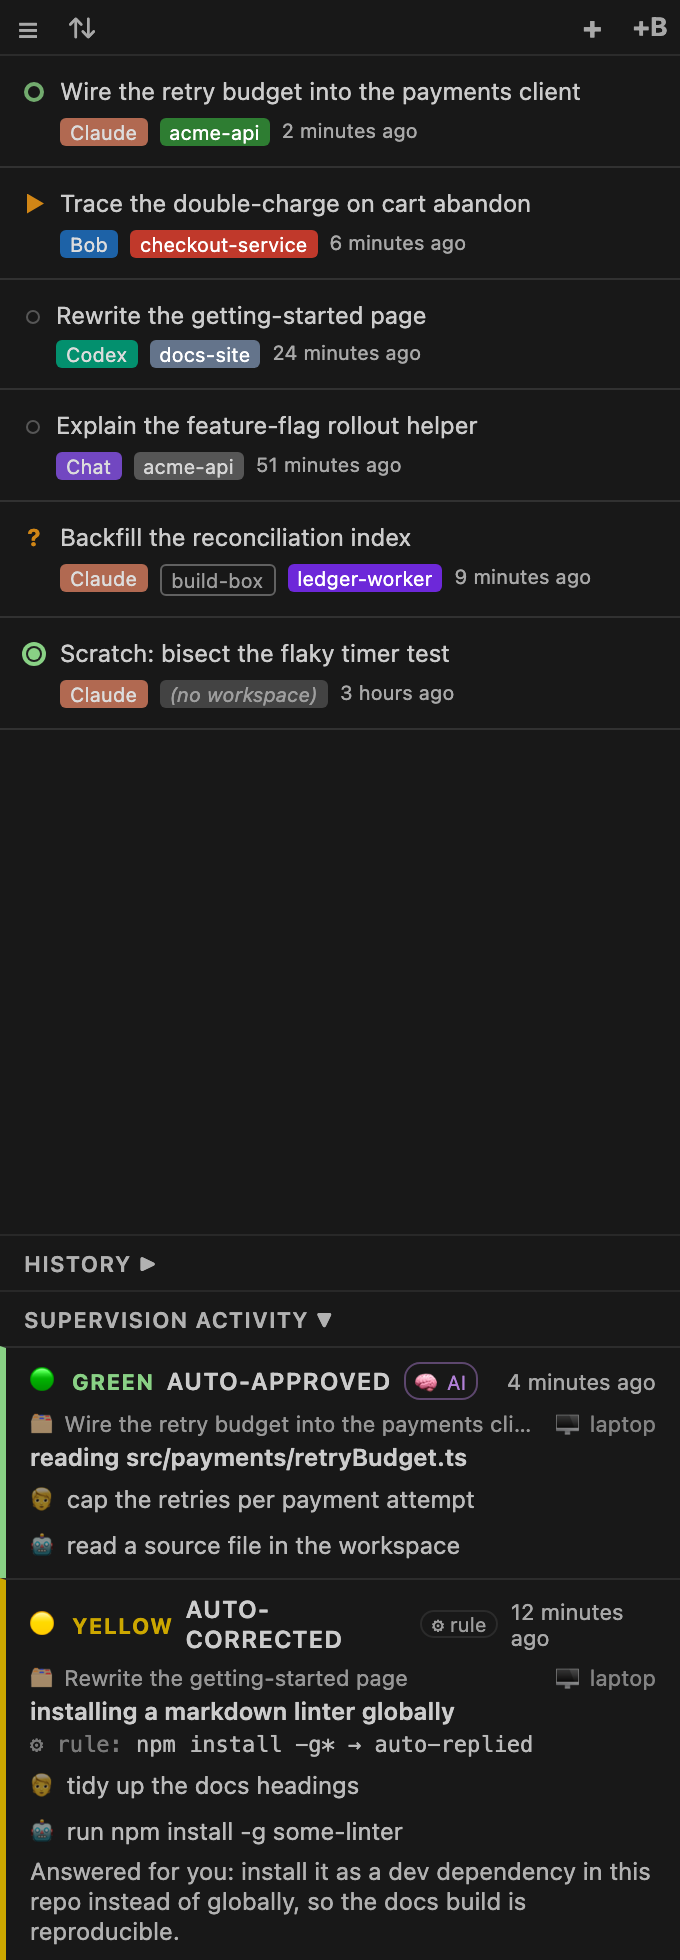
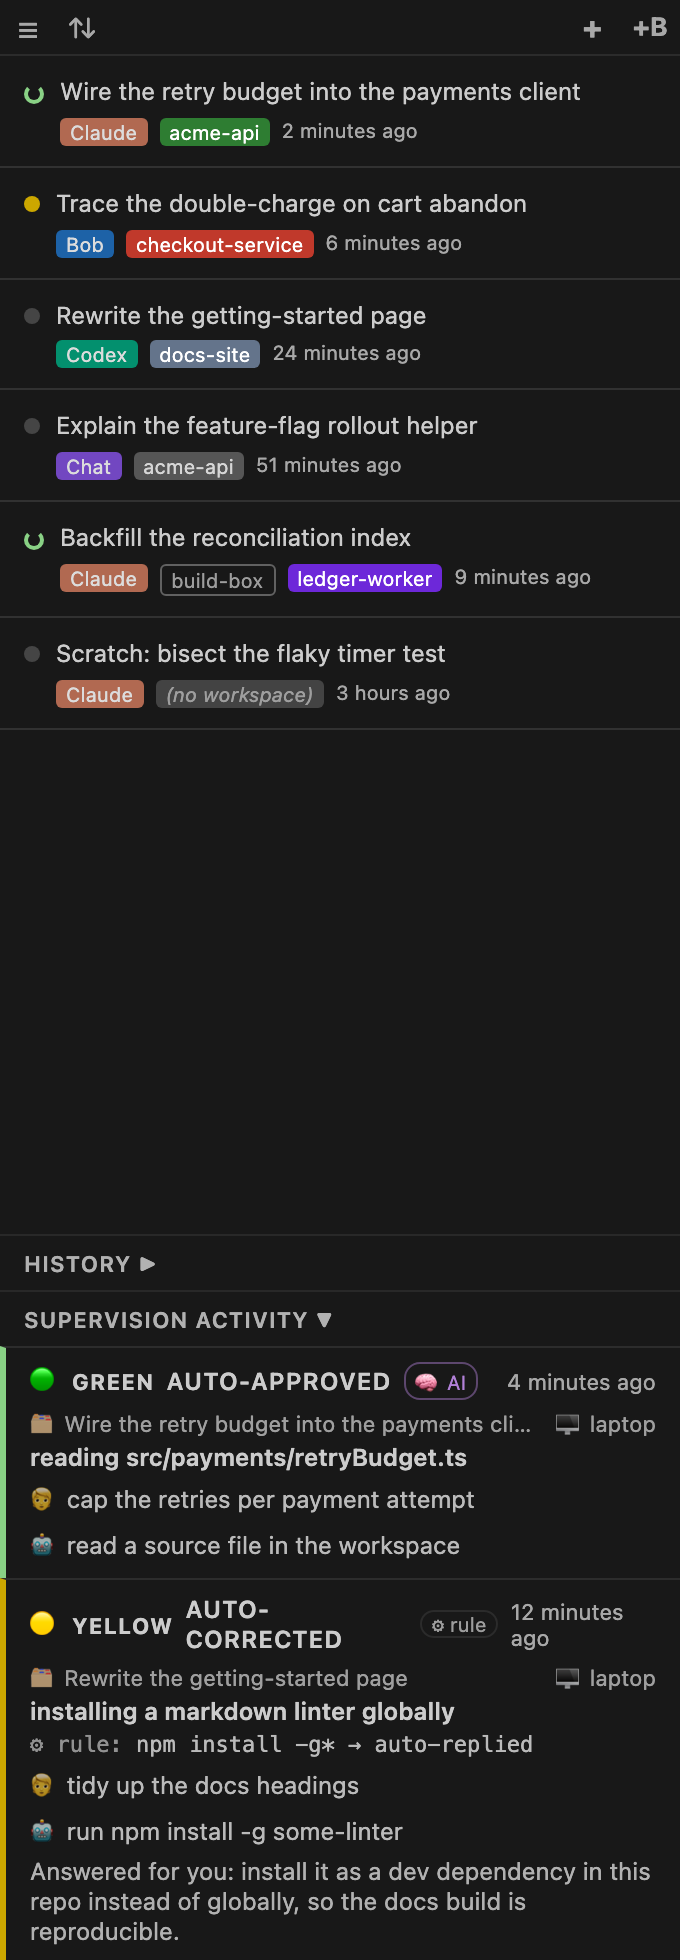
Stop painting the traffic-light labels with chart colours
The four labels in the supervision feed took their colour from the theme's
`charts-*` palette, which is a set of chart *fill* colours: picked to be
distinguishable from each other, never to be read against a background. On
Light Modern none of the four cleared the 4.5:1 that normal-size text needs —
yellow sat at 2.70:1 and orange at 2.77:1, worse than the hardcoded hex it
replaced.

So the colour moves to where a fill belongs. The left border keeps the light's
colour and the emoji dot beside it always did, while the words themselves get
`editor-foreground` and become readable: 10.55:1 on light, 11.06:1 on dark. The
same swap fixes the awaiting badge and the failed card, and the "you:" line
moves to `textLink-foreground`, which is the palette's blue for text.

While in there, the feed's muted lines that stacked opacity on an already-muted
colour go from 0.6 to 0.75, and the session host stops multiplying its parent's
dimming.

WebviewContrast.test.ts is the part that keeps this fixed: it reads the colours
out of styles.css and the theme values out of tools/screenshots/themes.mjs,
computes the WCAG ratio for both themes against both panel backgrounds, and
fails under 4.5:1. The old numbers were wrong because nothing was counting them.

diff --git a/src/test/WebviewContrast.test.ts b/src/test/WebviewContrast.test.ts
@@ -1,0 +1,168 @@
+import { describe, it, expect } from 'vitest';
+import * as fs from 'fs';
+import * as path from 'path';
+
+// WCAG 2.1 contrast, computed from the real files: the colours come out of
+// `src/webview/styles.css`, the `--vscode-*` values they resolve to come out of
+// `tools/screenshots/themes.mjs` (VS Code's own Dark Modern / Light Modern defaults).
+//
+// This exists because the traffic-light labels were painted with `--vscode-charts-*`, which are
+// chart *fill* colours: on Light Modern the yellow label sat at 2.70:1 and the orange at 2.77:1
+// against the panel, and nothing measured it, so nothing complained. The numbers below are the
+// check that was missing.
+
+const AA_NORMAL = 4.5;
+
+const ROOT = path.join(__dirname, '..', '..');
+const CSS = fs.readFileSync(path.join(ROOT, 'src', 'webview', 'styles.css'), 'utf8');
+const THEMES_SRC = fs.readFileSync(
+  path.join(ROOT, 'tools', 'screenshots', 'themes.mjs'), 'utf8');
+
+// ── WCAG maths ─────────────────────────────────────────────────────────────
+
+type Rgb = [number, number, number];
+
+function parseHex(hex: string): Rgb {
+  const h = hex.trim().replace('#', '');
+  const full = h.length === 3 ? [...h].map(c => c + c).join('') : h;
+  return [0, 2, 4].map(i => parseInt(full.slice(i, i + 2), 16)) as Rgb;
+}
+
+/** WCAG 2.1 relative luminance. */
+function luminance(hex: string): number {
+  const [r, g, b] = parseHex(hex).map(v => {
+    const c = v / 255;
+    return c <= 0.03928 ? c / 12.92 : Math.pow((c + 0.055) / 1.055, 2.4);
+  });
+  return 0.2126 * r + 0.7152 * g + 0.0722 * b;
+}
+
+function contrast(a: string, b: string): number {
+  const [hi, lo] = [luminance(a), luminance(b)].sort((x, y) => y - x);
+  return (hi + 0.05) / (lo + 0.05);
+}
+
+/** What `opacity: a` on text actually renders as: the colour composited over its background. */
+function fade(fg: string, bg: string, alpha: number): string {
+  const f = parseHex(fg), b = parseHex(bg);
+  return '#' + f
+    .map((v, i) => Math.round(v * alpha + b[i] * (1 - alpha)).toString(16).padStart(2, '0'))
+    .join('');
+}
+
+// ── Reading the two real files ─────────────────────────────────────────────
+
+/** The `--vscode-*` values from themes.mjs, read as text so the test needs no ESM interop. */
+function theme(name: 'dark' | 'light'): Record<string, string> {
+  const block = THEMES_SRC.match(
+    new RegExp(`export const ${name} = \\{([\\s\\S]*?)\\n\\};`))?.[1];
+  expect(block, `themes.mjs exports ${name}`).toBeTruthy();
+  const values: Record<string, string> = {};
+  for (const [, key, value] of (block as string).matchAll(
+    /^\s*'?([\w-]+)'?:\s*'(#[0-9a-fA-F]{3,8})'/gm)) {
+    values[key] = value;
+  }
+  return values;
+}
+
+const THEMES = { dark: theme('dark'), light: theme('light') };
+
+/** The declaration block of a rule, by its exact selector text. */
+function ruleBody(selector: string): string {
+  const escaped = selector.replace(/[.*+?^${}()|[\]\\]/g, '\\$&');
+  const match = CSS.match(new RegExp(`(?:^|\\n)${escaped}[^{}]*\\{([^}]*)\\}`));
+  expect(match, `styles.css has a rule for ${selector}`).toBeTruthy();
+  return (match as RegExpMatchArray)[1];
+}
+
+/** The token a rule paints its text with — or `editor-foreground`, inherited from `body`. */
+function colorToken(body: string): string {
+  return body.match(/color:\s*var\(--vscode-([\w-]+)/)?.[1] ?? 'editor-foreground';
+}
+
+function opacityOf(body: string): number {
+  return Number(body.match(/(?:^|;)\s*opacity:\s*([\d.]+)/)?.[1] ?? '1');
+}
+
+/**
+ * The rendered contrast of one selector's text against one background token, in one theme.
+ * `parent` names an ancestor whose own `opacity` multiplies this one's — CSS opacity compounds.
+ */
+function ratioFor(
+  selector: string, themeName: 'dark' | 'light', bgToken: string, parent?: string,
+): number {
+  const t = THEMES[themeName];
+  const body = ruleBody(selector);
+  const fg = t[colorToken(body)];
+  const bg = t[bgToken];
+  expect(fg, `${themeName} defines ${colorToken(body)}`).toBeTruthy();
+  expect(bg, `${themeName} defines ${bgToken}`).toBeTruthy();
+  const alpha = opacityOf(body) * (parent ? opacityOf(ruleBody(parent)) : 1);
+  return contrast(alpha < 1 ? fade(fg, bg, alpha) : fg, bg);
+}
+
+// Both, because the panel's own rule paints `editor-background` while the sidebar it lives in is
+// `sideBar-background` — and each is the stricter of the pair in one theme.
+const BACKGROUNDS = ['sideBar-background', 'editor-background'] as const;
+
+/** Every selector whose text must clear AA at normal size. All of these are small text. */
+const TEXT: Array<[selector: string, parent?: string]> = [
+  // The four traffic-light labels and the state badge beside them.
+  ['.activity-light'],
+  ['.activity-item.activity-failed .activity-light'],
+  ['.activity-state'],
+  ['.activity-awaiting-badge'],
+  // Muted feed and row text — every one of these dims an already-muted colour.
+  ['.activity-meta'],
+  ['.activity-timeago'],
+  ['.activity-line'],
+  ['.activity-line-label'],
+  ['.activity-you'],
+  ['.activity-note'],
+  ['.activity-session'],
+  ['.activity-session-host', '.activity-session'],
+  ['.tab-time'],
+  ['.preview-path'],
+  ['.preview-time'],
+  ['.about-built'],
+  // Toolbar buttons and the two section toggles, at their resting (dimmed) opacity.
+  ['#menu-btn'],
+  ['#sort-btn'],
+  ['#new-session-btn,\n#new-bob-session-btn'],
+  ['#history-toggle'],
+  ['#activity-toggle'],
+];
+
+describe('webview styles.css: text clears WCAG AA on Dark Modern and Light Modern', () => {
+  for (const themeName of ['dark', 'light'] as const) {
+    for (const bgToken of BACKGROUNDS) {
+      for (const [selector, parent] of TEXT) {
+        it(`${selector.replace(/\n/g, ' ')} on ${themeName} ${bgToken}`, () => {
+          const ratio = ratioFor(selector, themeName, bgToken, parent);
+          expect(
+            Number(ratio.toFixed(2)),
+            `${selector} is ${ratio.toFixed(2)}:1, needs ${AA_NORMAL}:1`,
+          ).toBeGreaterThanOrEqual(AA_NORMAL);
+        });
+      }
+    }
+  }
+
+  // The labels are no longer coloured, so the colour has to still be carried somewhere or the four
+  // lights become one. It is: the left border (here) and the emoji dot main.js writes.
+  it('still tells the four lights apart by the border colour', () => {
+    for (const light of ['green', 'yellow', 'orange', 'red']) {
+      expect(CSS).toMatch(new RegExp(
+        `\\.activity-item\\.activity-${light}\\s*\\{[^}]*border-left-color:\\s*var\\(--vscode-charts-${light}`));
+    }
+  });
+
+  // The regression itself: `charts-*` are fills, and this asserts they are not used as label text
+  // again. (They stay legitimate for the border above and the .status-waiting dot.)
+  it('does not paint the label text from the chart palette', () => {
+    for (const rule of CSS.match(/[^{}]*\.activity-light[^{}]*\{[^}]*\}/g) ?? []) {
+      expect(rule, rule).not.toMatch(/color:\s*var\(--vscode-charts-/);
+    }
+    expect(ruleBody('.activity-awaiting-badge')).not.toContain('--vscode-charts-');
+  });
+});

diff --git a/src/webview/styles.css b/src/webview/styles.css
@@ -841,7 +841,7 @@ button:focus-visible {
   overflow: hidden;
 }
 
-.activity-meta { opacity: 0.6; font-size: 11px; white-space: normal; word-break: break-word; }
+.activity-meta { opacity: 0.75; font-size: 11px; white-space: normal; word-break: break-word; }
 
 .activity-state {
   text-transform: uppercase;
@@ -858,11 +858,17 @@ button:focus-visible {
 }
 
 .activity-head { display: flex; align-items: center; gap: 6px; }
-.activity-light { font-weight: 700; letter-spacing: 0.05em; font-size: 11px; }
-.activity-item.activity-green  .activity-light { color: var(--vscode-charts-green, #3fb950); }
-.activity-item.activity-yellow .activity-light { color: var(--vscode-charts-yellow, #d29922); }
-.activity-item.activity-orange .activity-light { color: var(--vscode-charts-orange, #db6d28); }
-.activity-item.activity-red    .activity-light { color: var(--vscode-charts-red, var(--vscode-errorForeground, #f85149)); }
+
+/* The label is text, so it gets a text colour. `charts-*` are chart *fill* colours — picked to be
+   distinguishable from each other, not to be readable against a background — and on Light Modern
+   none of the four clears 4.5:1 against the panel (yellow 2.70, orange 2.77). The colour lives
+   where a fill belongs instead: the border-left above and the emoji dot beside it. */
+.activity-light {
+  font-weight: 700;
+  letter-spacing: 0.05em;
+  font-size: 11px;
+  color: var(--vscode-editor-foreground);
+}
 
 /* Who decided: a deterministic rule, or the supervisor AI. Both are real interventions, so both
    are listed — this pill is what tells them apart at a glance. */
@@ -888,8 +894,12 @@ button:focus-visible {
 .activity-body { display: flex; flex-direction: column; gap: 3px; }
 .activity-summary { font-weight: 600; word-break: break-word; }
 .activity-line { word-break: break-word; opacity: 0.9; }
-.activity-line-label { opacity: 0.6; }
-.activity-you { color: var(--vscode-charts-blue, #4aa8ff); }
+.activity-line-label { opacity: 0.75; }
+.activity-you {
+  /* textLink, not charts-blue: the link colour is the palette's text-on-background blue and clears
+     4.5:1 on both themes, where the chart blue lands at 4.33 on Light Modern. */
+  color: var(--vscode-textLink-foreground, var(--vscode-charts-blue, #4aa8ff));
+}
 
 /* Which session, on which machine. Muted and one line: it identifies the card, it is not its
    content, and the name is clipped rather than allowed to wrap the whole card taller. */
@@ -898,10 +908,10 @@ button:focus-visible {
   gap: 6px;
   align-items: baseline;
   font-size: 11px;
-  opacity: 0.7;
+  opacity: 0.75;
 }
 .activity-session-name { overflow: hidden; text-overflow: ellipsis; white-space: nowrap; }
-.activity-session-host { margin-left: auto; white-space: nowrap; opacity: 0.85; }
+.activity-session-host { margin-left: auto; white-space: nowrap; }
 
 .activity-chips { display: flex; flex-wrap: wrap; gap: 4px; margin-top: 2px; }
 .activity-chip {
@@ -916,13 +926,15 @@ button:focus-visible {
   margin-top: 3px;
   font-size: 11px;
   font-weight: 600;
-  color: var(--vscode-charts-orange, #db6d28);
+  color: var(--vscode-editor-foreground);
 }
 
 /* ── Failed supervision: collapsible, debuggable detail ──────────────────── */
 .activity-item.activity-failed { border-left-color: var(--vscode-charts-red, var(--vscode-errorForeground, #f85149)); }
+/* Same reason as .activity-light: the red border-left above marks the card, the words stay
+   readable. */
 .activity-item.activity-failed .activity-light,
-.activity-item.activity-failed .activity-state { color: var(--vscode-charts-red, var(--vscode-errorForeground, #f85149)); }
+.activity-item.activity-failed .activity-state { color: var(--vscode-editor-foreground); }
 
 .activity-failure { margin-top: 3px; }
 .activity-fail-toggle {
